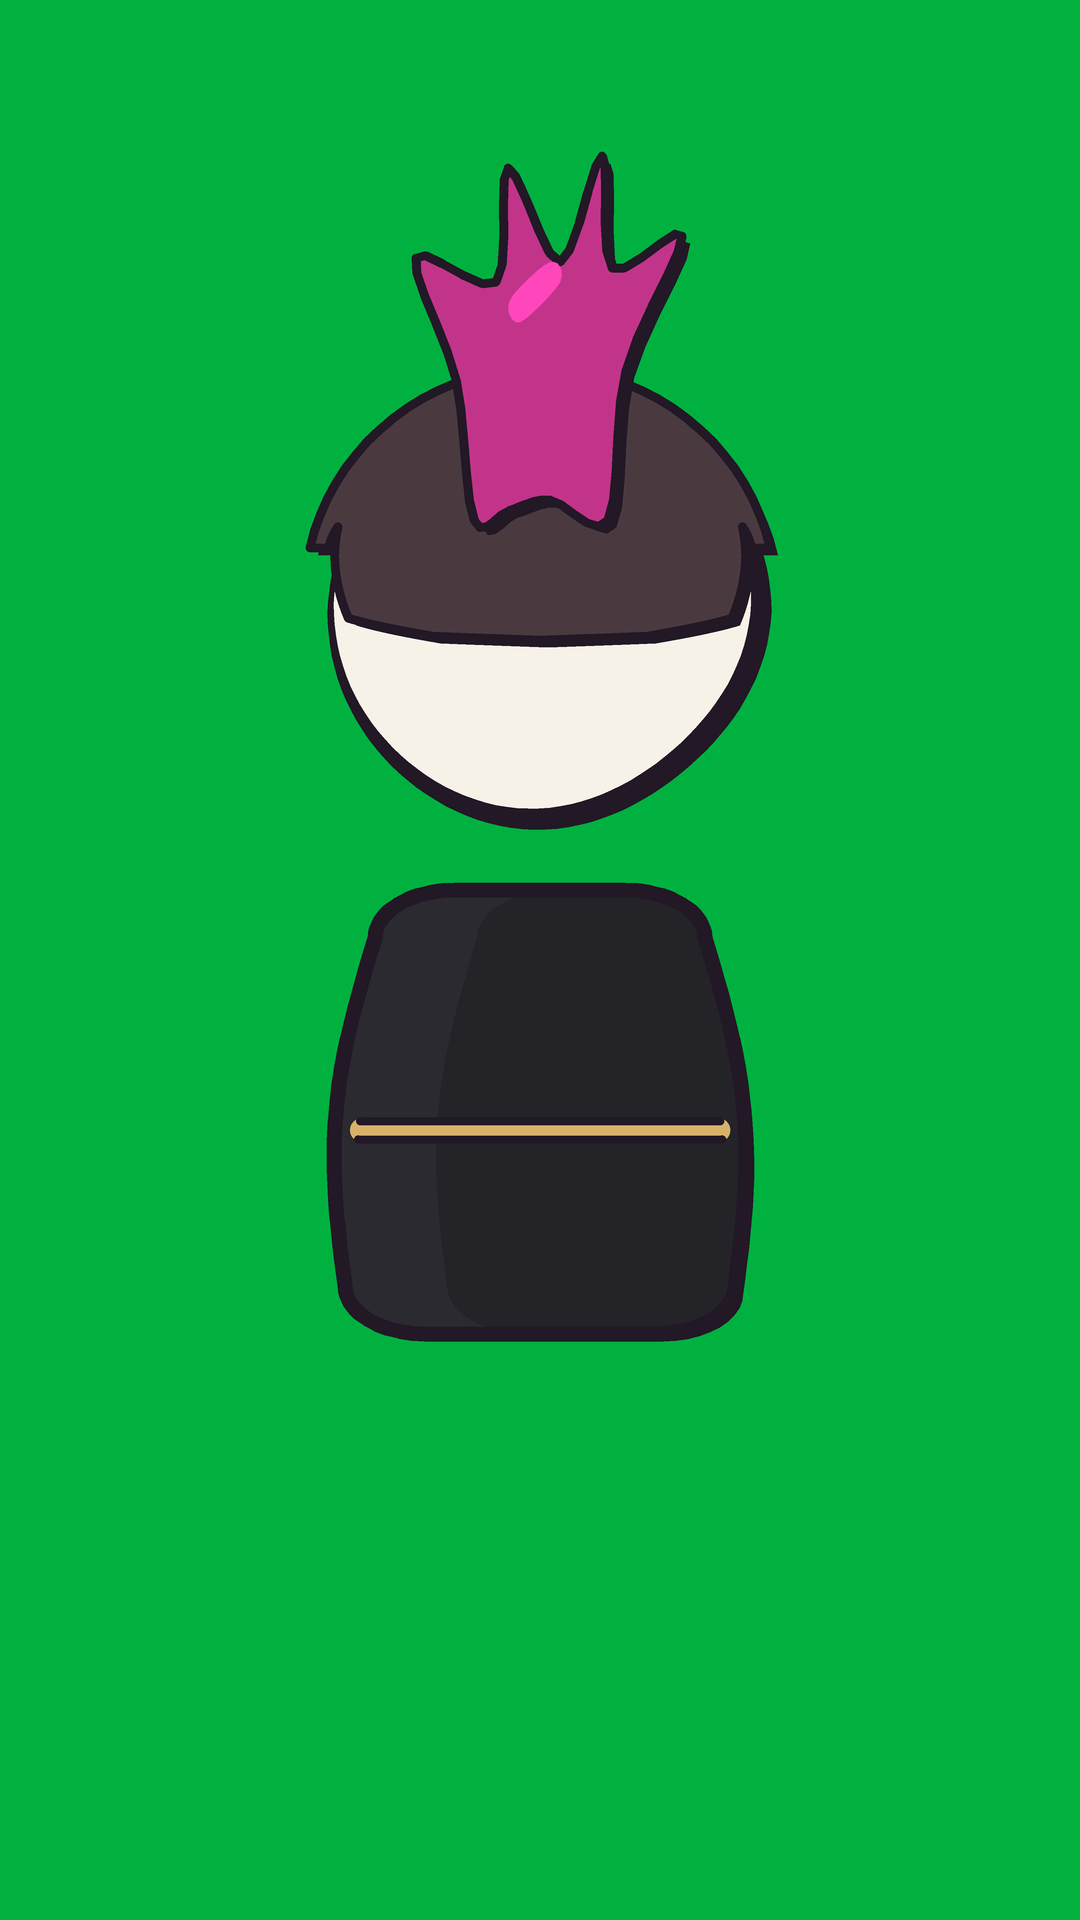
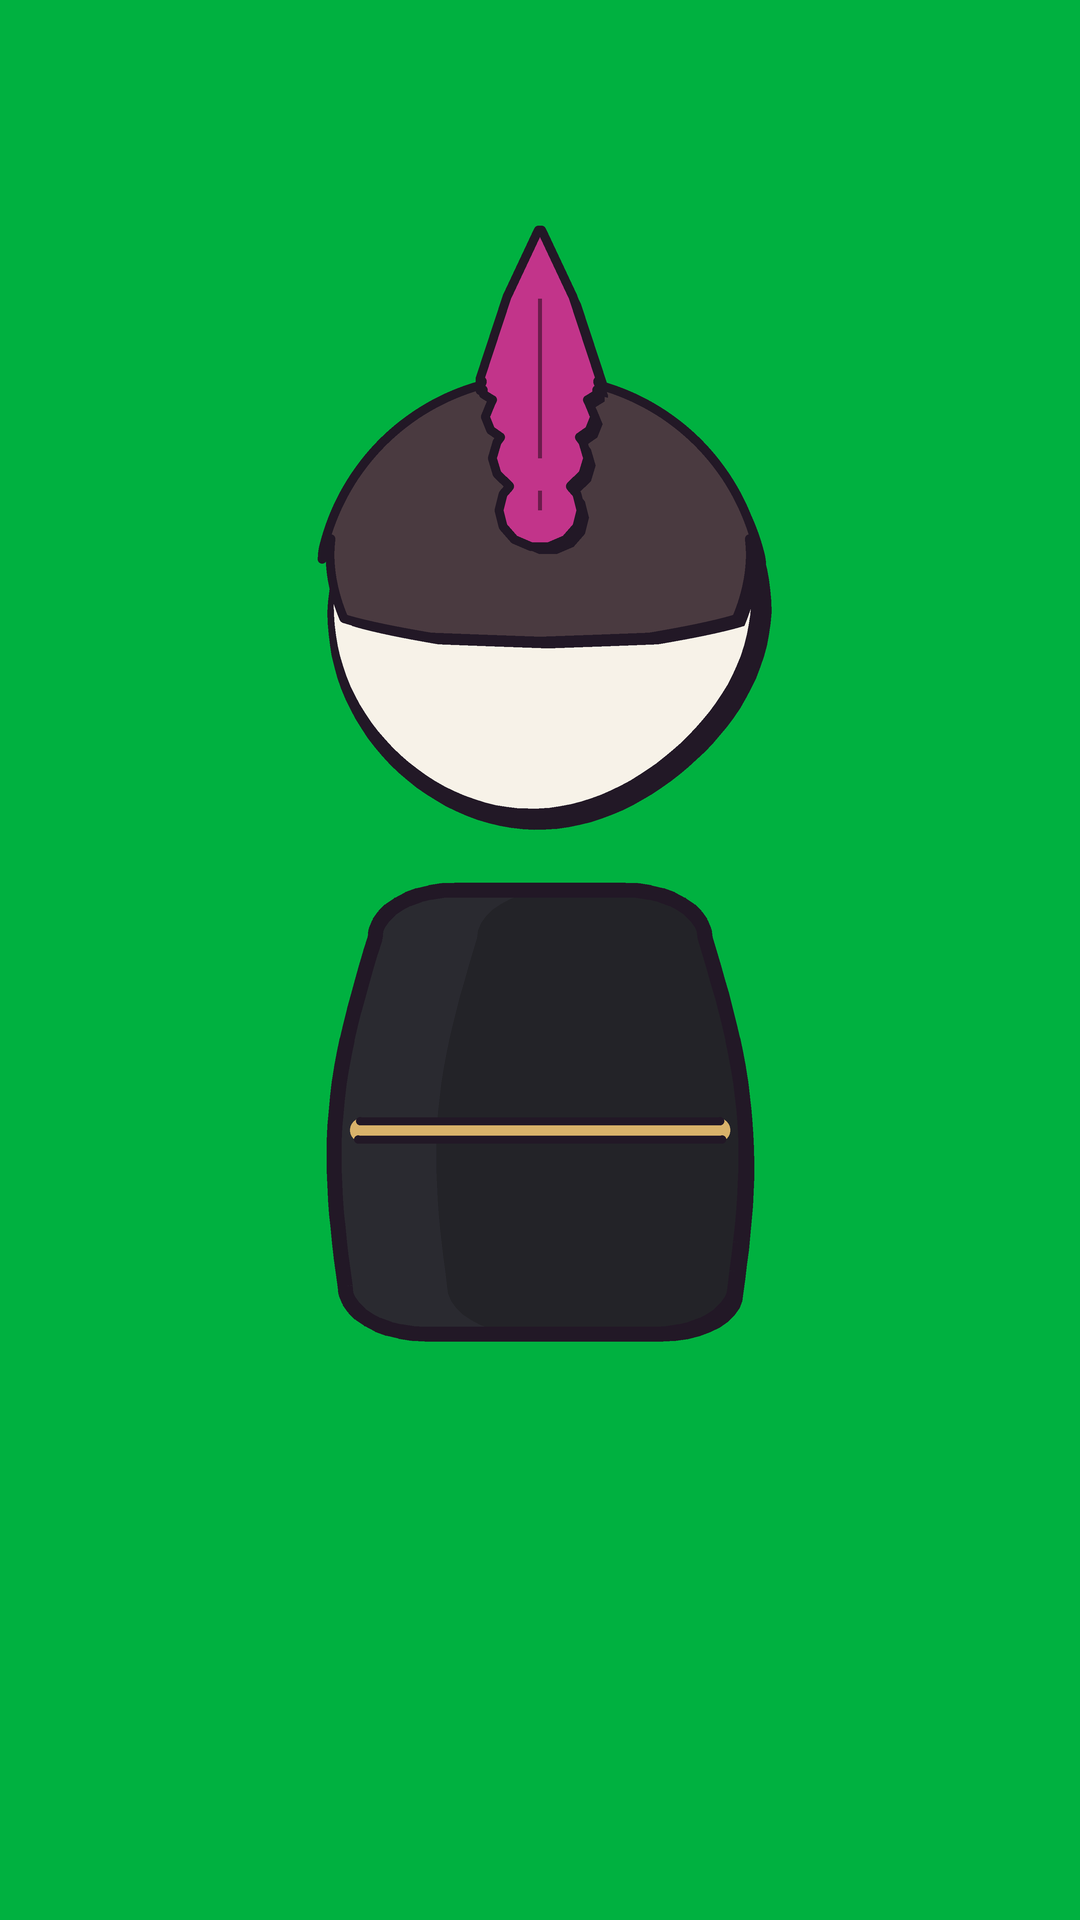
hair as 3D models (hair3d.py + styles3d.py): shell above a natural hairline + 3D spikes / locks / curls, every view is a projection of the same model with depth test and one ink outline; C01 C04 C05 C09 C10 regenerated (need re-approval); hair_model_sheet.py makes front/left/back/right/3-4 sheets

Changed region(s): [[0.3667, 0.0625, 0.7333, 0.3438], [0.275, 0.2188, 0.3667, 0.3438]]

diff --git a/projects/the-puppet-master/tools/hair3d.py b/projects/the-puppet-master/tools/hair3d.py
@@ -1,0 +1,126 @@
+# hair3d.py (v8 M3, 2026-11-24): every hairstyle is ONE 3D hair model on the head, and each view (F / Q / S / B, and the mirrored side)
+# is an orthographic projection of that same model (user rules: silhouette consistency, strand continuity, depth preservation; no
+# flattening, no spikes that vanish between views, no helmet hair).
+#
+# Model space (design units, same scale as mk_pm.py): head = sphere radius R at (0,0,0); +X = screen right in the front view,
+# +Y = up, +Z = toward the camera in the front view (the face). Screen: x = CX + X, y = 600 - Y. A view turns the model about Y:
+# Q = 38 deg, S = 78 deg (face to screen-left), B = 180 deg.
+#   shell   : the hair volume hugging the skull, thickness t, above a hairline (design-y of the hair edge by angle from the face)
+#   spike   : a cone growing out of the shell (base on the shell, a direction, a length, a base radius)
+#   strand  : a tapered curved lock (bangs, side locks) given as model points + radii
+#   puff    : a ball of hair (curls)
+# Pieces are unioned into one shape with one ink outline; pieces behind the head are hidden by a depth test against the skull.
+import math
+import numpy as np
+from scipy import ndimage
+from PIL import Image, ImageDraw
+from pm_draw import CX, K, W, H, INK, LW, shade
+
+R = 218.0
+YAWS = {'F': 0.0, 'Q': 38.0, 'S': 78.0, 'B': 180.0}
+
+def rot(p, yaw):                                    # model -> view: turn about Y so the face direction (0,0,1) goes to (-sin, 0, cos)
+    a = -math.radians(yaw); c, s = math.cos(a), math.sin(a); x, y, z = p
+    return (x * c + z * s, y, -x * s + z * c)
+def sph(az, el, r):                                 # point on a sphere: az from the face (+ = screen right in F), el up from the equator
+    a, e = math.radians(az), math.radians(el)
+    return (r * math.cos(e) * math.sin(a), r * math.sin(e), r * math.cos(e) * math.cos(a))
+def norm(v): l = math.sqrt(sum(c * c for c in v)) or 1; return tuple(c / l for c in v)
+def frame(az, el):                                  # outward normal, east (toward +az), north (toward +el) at a sphere point
+    n = norm(sph(az, el, 1)); a, e = math.radians(az), math.radians(el)
+    east = (math.cos(a), 0.0, -math.sin(a)); north = (-math.sin(e) * math.sin(a), math.cos(e), -math.sin(e) * math.cos(a))
+    return n, east, north
+def hairline(front=474, side=620, back=690):        # design-y of the hair edge vs. angle from the face (forehead, temple, sideburn, behind ear, nape)
+    return [(0, front), (50, front + 12), (68, side - 50), (84, side), (100, side - 34), (118, back - 22), (150, back - 4), (180, back)]
+
+class Hair:
+    def __init__(self, col, t=22, hl=(474, 620, 690)):
+        self.col, self.t, self.hl = col, t, hairline(*hl); self.parts = []
+    def spike(self, az, el, length, width, up=0.0, side=0.0, out=1.0, bend=0.0):
+        """cone from the shell at (az, el): direction = outward normal tilted `up` deg toward the crown/back (+north) and `side` deg
+        sideways (+east); `bend` curls the tip further the same way (deg)"""
+        n, e, no = frame(az, el); base = sph(az, el, R + self.t * .55)
+        def dirv(extra):
+            u, s_ = math.radians(up + extra), math.radians(side)
+            return norm(tuple(n[i] * math.cos(u) * math.cos(s_) * out + no[i] * math.sin(u) + e[i] * math.sin(s_) for i in range(3)))
+        mid = tuple(base[i] + dirv(0)[i] * length * .55 for i in range(3)); tip = tuple(mid[i] + dirv(bend)[i] * length * .45 for i in range(3))
+        self.parts.append(('tube', [base, mid, tip], [width, width * .55, 1.5], True)); return self
+    def strand(self, pts, radii, line=True):
+        """a lock through model points (use sph() for points on the head) with a radius at each point"""
+        self.parts.append(('tube', pts, radii, line)); return self
+    def puff(self, az, el, r, lift=0.0):
+        self.parts.append(('ball', sph(az, el, R + self.t * .4 + lift), r)); return self
+
+def _circle(c, d, r, n=14):                          # points of a circle of radius r around c, perpendicular to direction d
+    d = norm(d); a = (0, 1, 0) if abs(d[1]) < .9 else (1, 0, 0)
+    u = norm((d[1] * a[2] - d[2] * a[1], d[2] * a[0] - d[0] * a[2], d[0] * a[1] - d[1] * a[0])); v = (d[1] * u[2] - d[2] * u[1], d[2] * u[0] - d[0] * u[2], d[0] * u[1] - d[1] * u[0])
+    return [tuple(c[i] + r * (math.cos(2 * math.pi * k / n) * u[i] + math.sin(2 * math.pi * k / n) * v[i]) for i in range(3)) for k in range(n)]
+def _hull(pts):
+    pts = sorted(set(pts))
+    if len(pts) < 3: return pts
+    cross = lambda o, a, b: (a[0] - o[0]) * (b[1] - o[1]) - (a[1] - o[1]) * (b[0] - o[0]); lo, up = [], []
+    for p in pts:
+        while len(lo) >= 2 and cross(lo[-2], lo[-1], p) <= 0: lo.pop()
+        lo.append(p)
+    for p in reversed(pts):
+        while len(up) >= 2 and cross(up[-2], up[-1], p) <= 0: up.pop()
+        up.append(p)
+    return lo[:-1] + up[:-1]
+
+def render(d, hair, view, mirror=False):
+    """draw `hair` for one view onto the mk_pm canvas `d` (mirror = the other side, for the right-side view)"""
+    yaw = YAWS[view]; t = hair.t; sgn = -1 if mirror else 1
+    pad = 260; x0, y0 = int((CX - R - pad) * K), int((600 - R - pad - 60) * K); x1, y1 = int((CX + R + pad) * K), int((600 + R + 120) * K)
+    gx, gy = np.meshgrid((np.arange(x0, x1) / K - CX) * sgn, 600 - np.arange(y0, y1) / K)       # view-space X, Y of every pixel
+    rr2 = gx * gx + gy * gy
+    zhead = np.sqrt(np.clip(R * R - rr2, 0, None)); inhead = rr2 < R * R
+    # ---- shell: front hit of the outer sphere, and (in the rim band) the back hit; hair where that point is above the hairline
+    Ro = R + t; ins = rr2 <= Ro * Ro; zo = np.sqrt(np.clip(Ro * Ro - rr2, 0, None))
+    angs = [a for a, _ in hair.hl]; ysl = [y for _, y in hair.hl]
+    a_ = -math.radians(-yaw); c_, s_ = math.cos(a_), math.sin(a_)         # view -> model is the inverse turn
+    def cap_at(z):
+        mx = gx * c_ + z * s_; mz = -gx * s_ + z * c_
+        az = np.degrees(np.abs(np.arctan2(mx, mz))); edge_y = 600 - np.interp(az, angs, ysl)   # model Y of the hairline at that azimuth
+        return gy * (R / Ro) > edge_y                                       # the same direction on the skull is above the hairline
+    cap = ins & (cap_at(zo) | (~inhead & cap_at(-zo)))
+    mask = cap.copy(); lines = []
+    # ---- pieces, depth-tested against the skull
+    for p in hair.parts:
+        m = Image.new('L', (x1 - x0, y1 - y0), 0); dr = ImageDraw.Draw(m); zs = []
+        if p[0] == 'tube':
+            pts = [rot(q, yaw) for q in p[1]]; radii = p[2]
+            for i in range(len(pts) - 1):
+                a, b = pts[i], pts[i + 1]; dvec = tuple(b[k] - a[k] for k in range(3))
+                ring = _circle(a, dvec, radii[i]) + _circle(b, dvec, max(radii[i + 1], .8))
+                poly = _hull([(round(q[0], 2), round(q[1], 2)) for q in ring])
+                dr.polygon([((CX + sgn * x) * K - x0, (600 - y) * K - y0) for x, y in poly], fill=255); zs += [a[2], b[2]]
+            if p[3]: lines.append(pts)
+        else:
+            c = rot(p[1], yaw); r = p[2]; zs = [c[2]]
+            dr.ellipse(((CX + sgn * c[0] - r) * K - x0, (600 - c[1] - r) * K - y0, (CX + sgn * c[0] + r) * K - x0, (600 - c[1] + r) * K - y0), fill=255)
+        pm = np.asarray(m) > 127
+        hidden = inhead & (max(zs) < zhead - 6)                     # behind the skull where the skull covers it
+        mask |= pm & ~hidden
+    # ---- no pockets: background enclosed between the hair and the head (seen as holes in a turned view) becomes hair
+    disk = rr2 <= (R - 4) ** 2
+    both = mask | disk; mask |= ndimage.binary_fill_holes(both) & ~both
+    # ---- one piece, one weighted ink outline (as pm_draw.poly)
+    lw = LW; ox, oy = int(lw * .55), int(lw * .5)
+    sh = np.zeros_like(mask); sh[oy:, ox:] = mask[:-oy, :-ox]
+    half = lw * .6 / 2; din = ndimage.distance_transform_edt(mask); dout = ndimage.distance_transform_edt(~mask)
+    ink = (sh & ~mask) | ((din > 0) & (din <= half)) | ((dout > 0) & (dout <= half)); fill = mask & ~ink
+    im = d._image; box = im.crop((x0, y0, x1, y1))
+    box.paste(Image.new('RGB', box.size, INK), (0, 0), Image.fromarray((ink * 255).astype('uint8')))
+    box.paste(Image.new('RGB', box.size, hair.col), (0, 0), Image.fromarray((fill * 255).astype('uint8')))
+    # background left enclosed between this hair and the drawn head ball (the ball is a hand-drawn blob, not the sphere) = hair
+    from pm_draw import GREEN
+    arr = np.asarray(box); bg = np.all(arr == np.array(GREEN, np.uint8), axis=2)
+    pocket = ndimage.binary_fill_holes(~bg) & bg
+    if pocket.any(): box.paste(Image.new('RGB', box.size, hair.col), (0, 0), Image.fromarray((pocket * 255).astype('uint8')))
+    im.paste(box, (x0, y0))
+    # ---- strand lines on locks that face the camera (clump separation: continuity of the flow around the head)
+    dd = ImageDraw.Draw(im)
+    for pts in lines:
+        if pts[0][2] < 20: continue
+        q = [((CX + sgn * x) * K, (600 - y) * K) for x, y, _ in pts[:-1]] + [((CX + sgn * pts[-1][0]) * K * .3 + (CX + sgn * pts[-2][0]) * K * .7, (600 - pts[-1][1]) * K * .3 + (600 - pts[-2][1]) * K * .7)]
+        dd.line(q, fill=shade(hair.col, .55), width=int(4 * K), joint='curve')

diff --git a/projects/the-puppet-master/tools/styles3d.py b/projects/the-puppet-master/tools/styles3d.py
@@ -1,0 +1,47 @@
+# styles3d.py (v8 M3, 2026-11-24): the PUPPET MASTER hairstyles as 3D hair models (hair3d.Hair). One model per hairstyle; every view
+# of a character is a projection of it. Angles: az from the face (+ = screen right in the front view = the character's LEFT side),
+# el up from the head's equator (eye level is about el 0, the crown el 90).
+from hair3d import Hair, sph, R
+from pm_draw import hexc
+
+def aren():                                         # black messy hair: tall crown spikes all round, bangs over the right eye, nape points
+    h = Hair(hexc('#16131d'), t=26, hl=(470, 640, 700))
+    for az, el, L, w, up, side in [(0, 86, 120, 46, 0, 0), (0, 66, 105, 44, 8, 0), (38, 64, 100, 42, 6, 14), (-38, 64, 100, 42, 6, -14),
+                                   (78, 48, 95, 40, 10, 16), (-78, 48, 95, 40, 10, -16), (120, 55, 100, 42, 14, 10), (-120, 55, 100, 42, 14, -10),
+                                   (165, 62, 100, 42, 16, 6), (-165, 62, 100, 42, 16, -6), (100, 22, 80, 36, -18, 10), (-100, 22, 80, 36, -18, -10),
+                                   (145, 18, 85, 38, -30, 8), (-145, 18, 85, 38, -30, -8), (180, 10, 80, 36, -40, 0), (60, 78, 90, 38, 10, 20), (-60, 78, 90, 38, 10, -20)]:
+        h.spike(az, el, L * 1.2, w * 1.45, up, side)
+    for az, tip_el, w in [(-48, 14, 30), (-28, -4, 32), (-8, 6, 30), (14, 12, 28), (34, 16, 28), (52, 20, 26)]:   # bangs; the char's right eye (az < 0) gets the longest lock
+        h.strand([sph(az, 46, R + 26), sph(az + 3, 28, R + 16), sph(az + 6, tip_el, R + 9)], [w * 1.45, w * .85, 3])
+    return [h]
+
+def noah():                                         # ash-silver hair swept back: locks lie along the skull toward the crown/back, tips lifting; a fringe lock on the left
+    h = Hair(hexc('#cdd0da'), t=22, hl=(470, 620, 700))
+    for az, el, L, w, up, side in [(0, 55, 120, 44, 62, 0), (30, 52, 115, 42, 60, 10), (-30, 52, 115, 42, 60, -10), (60, 42, 110, 40, 58, 18),
+                                   (-60, 42, 110, 40, 58, -18), (95, 32, 95, 36, 50, 22), (-95, 32, 95, 36, 50, -22), (0, 80, 110, 42, 60, 0),
+                                   (150, 40, 90, 38, 20, 10), (-150, 40, 90, 38, 20, -10), (180, 30, 85, 36, 10, 0)]:
+        h.spike(az, el, L * 1.1, w * 1.35, up, side, bend=18)
+    h.strand([sph(-34, 40, R + 22), sph(-30, 22, R + 16), sph(-26, 2, R + 10)], [30, 20, 2])            # the long fringe lock (screen left)
+    return [h]
+
+def curly():                                        # brown curly mop: balls of curls over the whole cap, smaller ones along the hairline
+    h = Hair(hexc('#6b4630'), t=30, hl=(470, 640, 705))
+    for el, step, r in [(82, 120, 44), (64, 40, 42), (46, 34, 40), (28, 30, 38), (12, 30, 36)]:
+        az = -180
+        while az < 180:
+            if not (el < 40 and abs(az) < 60):      # keep the face free
+                h.puff(az, el, r)
+            az += step
+    for az in (-56, -40, -22, -4, 14, 32, 50): h.puff(az, 40, 30, lift=-6)   # curls along the front hairline
+    return [h]
+
+def buzz():                                         # very short dark buzz cut: a thin shell, no strands
+    return [Hair(hexc('#3a3236'), t=6, hl=(470, 560, 640))]
+
+def mohawk():                                       # shaved grey sides + a magenta fin along the middle of the head, front to back
+    g = Hair(hexc('#4a3a40'), t=5, hl=(476, 560, 640)); fin = Hair(hexc('#c2348a'), t=5, hl=(-9999, -9999, -9999))   # no scalp layer: only the fin
+    for az, el, L, w in [(0, 38, 90, 30), (0, 54, 120, 34), (0, 70, 140, 36), (0, 86, 150, 36), (180, 72, 140, 34), (180, 56, 120, 32), (180, 40, 95, 28), (180, 24, 70, 24)]:
+        fin.spike(az, el, L, w * 1.7, 0, 0)            # wide overlapping bases: one continuous fin
+    return [g, fin]
+
+STYLES = {'C01': aren, 'C04': buzz, 'C05': mohawk, 'C09': noah, 'C10': curly}

diff --git a/projects/the-puppet-master/tools/mk_pm.py b/projects/the-puppet-master/tools/mk_pm.py
@@ -6,6 +6,8 @@ import sys
 from pm_draw import *
 from outfits import *
 from hair_library import *
+import hair3d
+from styles3d import STYLES as STYLES3D
 out=sys.argv[1]
 CH={'C01':(hair_aren,villager,(hexc('#1b1820'),)),'C02':(cap_guard,villager,(hexc('#2c3a5c'),)),
     'C03':(hair_fire,villager,(hexc('#c8bfa8'),)),'C04':(hair_buzz,villager,(hexc('#6a5a4a'),)),
@@ -19,6 +21,9 @@ for cid,spec in CH.items():
         im=Image.new('RGB',(W,H),GREEN); d=ImageDraw.Draw(im)
         cos(im,d,v,*args); d=ImageDraw.Draw(im)
         if back and v!='B': back(d,v)
-        SEED[0]=int(cid[1:])*7+3; ball(d,flip=(v=='B')); hat(d,v)
+        SEED[0]=int(cid[1:])*7+3; ball(d,flip=(v=='B'))
+        if cid in STYLES3D:
+            for h in STYLES3D[cid](): hair3d.render(d,h,v)   # v8 (2026-11-24): one 3D hair model, projected per view
+        else: hat(d,v)
         im.resize((1080,1920),Image.LANCZOS).save(f'{out}/{cid}-{v}.png')
 print('ok')

diff --git a/projects/the-puppet-master/tools/hair_model_sheet.py b/projects/the-puppet-master/tools/hair_model_sheet.py
@@ -1,0 +1,13 @@
+import sys; sys.path.insert(0,'.')
+from PIL import Image, ImageDraw
+from pm_draw import *
+import hair3d, styles3d
+out=sys.argv[1]; rows=[]
+for cid in sys.argv[2].split(','):
+    tiles=[]
+    for view,mir,lab in [('F',False,'front'),('S',False,'left'),('B',False,'back'),('S',True,'right'),('Q',False,'3/4')]:
+        im=Image.new('RGB',(W,H),GREEN); d=ImageDraw.Draw(im); SEED[0]=int(cid[1:])*7+3; ball(d,flip=(view=='B'))
+        for h in styles3d.STYLES[cid](): hair3d.render(d,h,view,mirror=mir)
+        tiles.append(im.crop((0,0,W,int(2600))).resize((300,240)))
+    row=Image.new('RGB',(1500,240)); [row.paste(t,(i*300,0)) for i,t in enumerate(tiles)]; rows.append(row)
+S=Image.new('RGB',(1500,240*len(rows))); [S.paste(r,(0,i*240)) for i,r in enumerate(rows)]; S.save(out)
